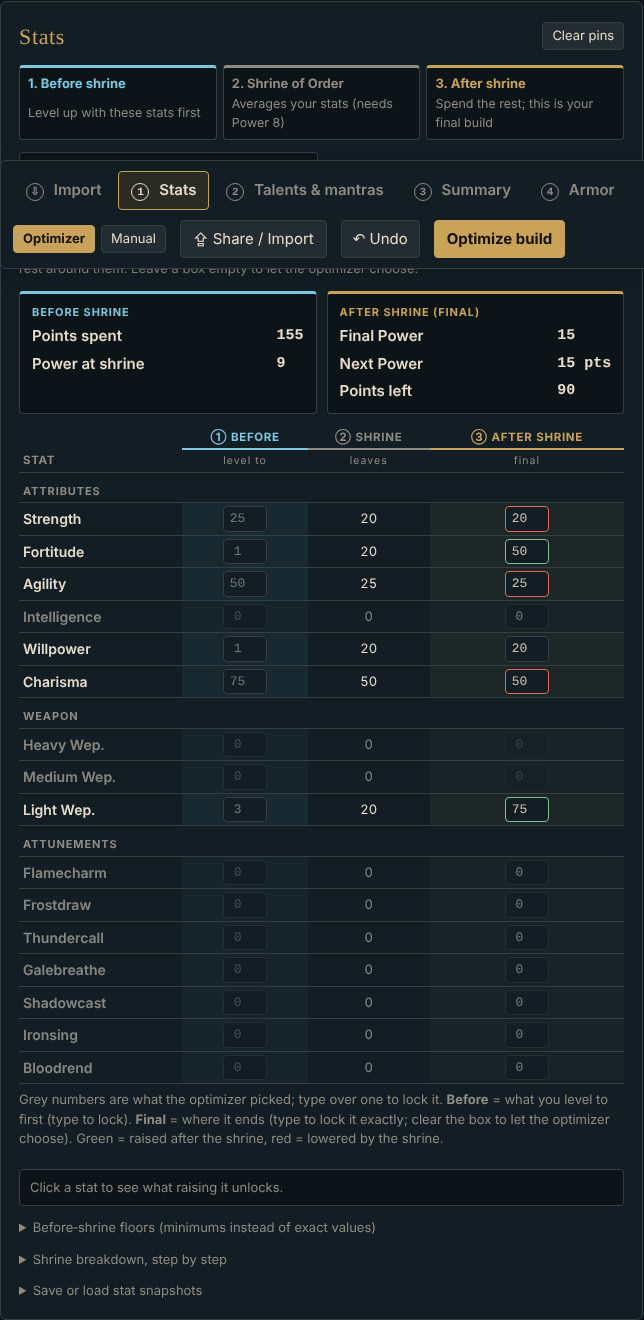
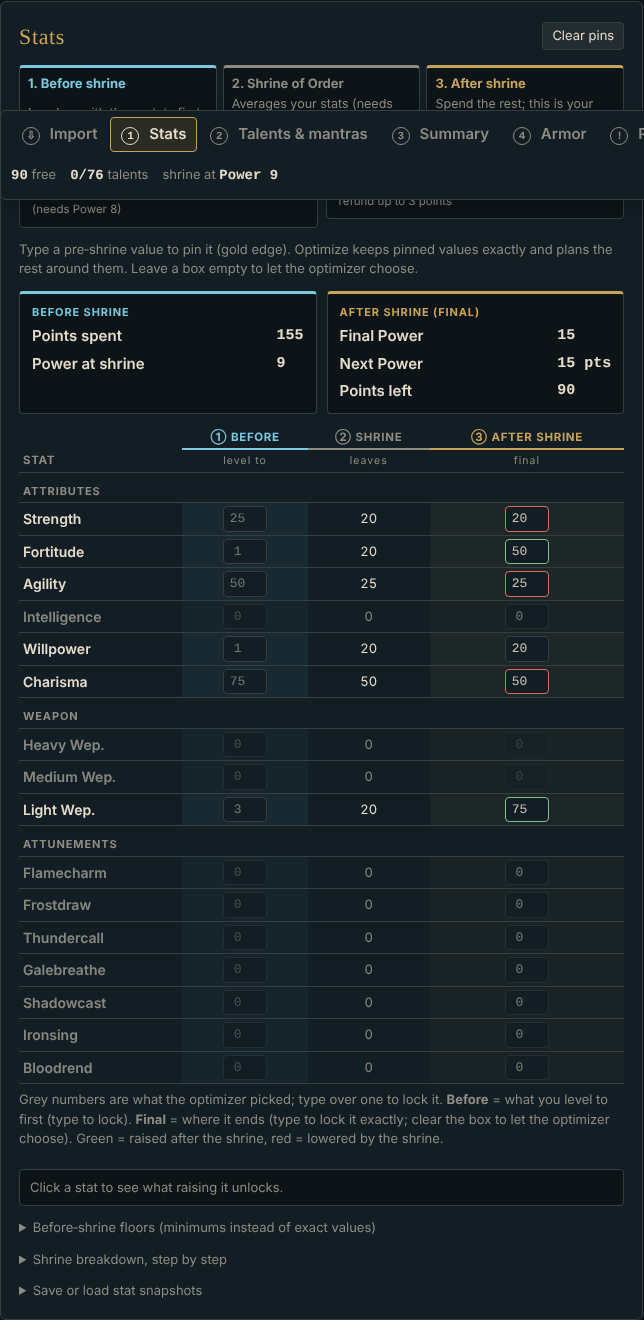
v0.23: compact sticky bar so Talents tab filters/search aren't covered; talent search finds by effect
- Version shown as v0.23 (v1.0 at release)
- The sticky bar had grown to 109-200px with the new tabs and covered the
  Talents tab filter buttons and search boxes after scrolling; now 90px
  (114px on phones) with tabs on one sideways-scrolling row
- Talent picker search looks through every talent's name, category, stats and
  description, whatever filter is selected; filters keep their panel in view

Claude-Session: https://claude.ai/code/session_01FgpXtZoLrXDjHgUHZTAHg7

Changed region(s): [[0.0, 0.0621, 1.0, 0.2174], [0.9938, 0.1553, 1.0, 0.2174]]

diff --git a/index.html b/index.html
@@ -104,13 +104,18 @@ table.ratio td:last-child{text-align:left;font-family:var(--f-body);font-size:12
 .mins label{display:flex;flex-direction:column;gap:3px;font-size:12px;color:var(--dim)}
 .mins input{width:100%}
 .hint{font-size:13px;color:var(--dim);margin:0}
-.tabbar{position:sticky;top:0;z-index:5;display:flex;flex-wrap:wrap;gap:10px 14px;align-items:center;padding:10px 12px;background:var(--trench);border:1px solid var(--line);border-radius:6px;box-shadow:0 6px 18px rgba(0,0,0,.18)}
-.tabs{display:flex;gap:4px;flex-wrap:wrap}
-.tabs button{background:transparent;border:1px solid transparent;color:var(--dim);font-weight:600;padding:7px 12px}
+/* compact sticky bar: tabs on one scrollable row, status + actions on one row below, so it covers little of the page */
+.tabbar{position:sticky;top:0;z-index:5;display:grid;grid-template-columns:minmax(0,1fr) auto auto auto auto;gap:6px 8px;align-items:center;padding:6px 10px;background:var(--trench);border:1px solid var(--line);border-radius:6px;box-shadow:0 6px 18px rgba(0,0,0,.18)}
+.tabs{grid-column:1/-1;display:flex;gap:2px;flex-wrap:nowrap;overflow-x:auto;scrollbar-width:thin}
+.tabs button{background:transparent;border:1px solid transparent;color:var(--dim);font-weight:600;padding:5px 10px;white-space:nowrap}
+.tabbar>button,.tabbar .modeseg button{padding:5px 10px;font-size:13px;white-space:nowrap}
+html{scroll-padding-top:100px}
+.tabbar .modeseg{display:flex;flex-wrap:nowrap}
+@media (max-width:1000px){.status>span:nth-child(3){display:none}}
 .tabs button b{font-family:var(--f-mono);font-size:11px;display:inline-grid;place-items:center;width:18px;height:18px;border-radius:50%;border:1px solid currentColor;margin-right:6px}
 .tabs button[aria-selected=true]{color:var(--bone);background:var(--brass-wash);border-color:var(--brass)}
 .tabs button:hover{color:var(--bone)}
-.status{flex:1 1 200px;display:flex;flex-wrap:wrap;gap:6px 14px;font-size:13px;color:var(--dim);justify-content:flex-end}
+.status{min-width:0;display:flex;flex-wrap:nowrap;overflow:hidden;gap:6px 14px;font-size:13px;color:var(--dim);justify-content:flex-start;white-space:nowrap}
 .status b{font-family:var(--f-mono);color:var(--bone);font-size:14px}
 .status .bad b,.status .bad{color:var(--bad)}
 .toast{margin:-8px 4px 0;min-height:1.2em}
@@ -255,7 +260,7 @@ dialog#wiz::backdrop{background:rgba(0,0,0,.6)}
 .tag.ok{color:var(--ok);border-color:var(--ok)} .tag.warn{color:var(--warn);border-color:var(--warn)} .tag.bad{color:var(--bad);border-color:var(--bad)}
 .chip.req{border-color:var(--brass);border-width:2px}
 
-@media (max-width:640px){.tabbar{padding:8px;gap:8px}.tabs{flex-wrap:nowrap;overflow-x:auto;width:100%}.tabs button{padding:6px 9px;white-space:nowrap}.status{justify-content:flex-start;flex:1 1 auto;font-size:12px}.tabbar>.primary{padding:6px 10px;font-size:13px}.groups.tall{max-height:60vh}}
+@media (max-width:640px){.tabbar{padding:6px;gap:5px 4px;grid-template-columns:auto auto auto auto;justify-content:space-between}.tabbar .status{grid-column:1/-1;grid-row:3;font-size:12px}.tabbar .lbl{display:none}.tabs button{padding:5px 8px}.tabbar>button,.tabbar .modeseg button{padding:5px 7px;font-size:12px}html{scroll-padding-top:120px}.groups.tall{max-height:60vh}}
 .gslot{grid-template-columns:minmax(0,1fr)!important}
 .gslot .lb{margin-bottom:-2px}
 .gslot .pips{grid-column:1!important}
@@ -431,7 +436,7 @@ details summary{cursor:pointer;color:var(--dim);font-size:13px}
 <div class="wrap">
 <header class="topbar">
   <div>
-    <h1>Meta <span>Builder</span><small class="ver" title="Meta Builder version">v1.23</small></h1>
+    <h1>Meta <span>Builder</span><small class="ver" title="Meta Builder version">v0.23</small></h1>
     <p>Deepwoken Shrine of Order planner: build, optimize, check damage, then gear up.</p>
   </div>
   <details id="lookbox" style="min-width:min(100%,280px)"><summary><svg viewBox="0 0 24 24" fill="none" stroke="currentColor" stroke-width="2" aria-hidden="true"><path d="M12 3a9 9 0 1 0 0 18c1.1 0 1.6-.9 1.6-1.7 0-.5-.2-.9-.5-1.2-.3-.3-.5-.7-.5-1.2 0-.9.8-1.7 1.7-1.7H16a5 5 0 0 0 5-5c0-3.9-4-7.2-9-7.2Z"/><circle cx="7.5" cy="11" r="1.2" fill="currentColor"/><circle cx="10.5" cy="7" r="1.2" fill="currentColor"/><circle cx="15" cy="7.5" r="1.2" fill="currentColor"/></svg>Customize look</summary>
@@ -464,8 +469,8 @@ details summary{cursor:pointer;color:var(--dim);font-size:13px}
   </div>
   <div class="status" id="status" aria-live="polite"></div>
   <div class="seg modeseg" id="modeseg" role="group" aria-label="Planner mode"><button class="mini" data-mode="opt" title="The optimizer picks pre-shrine stats, raises stats for your talents and spends leftovers">Optimizer</button><button class="mini" data-mode="man" title="You set every stat yourself; nothing is raised or chosen for you">Manual</button></div>
-  <button id="sharebtn" title="Get a link to this build, export it, or import someone else's">⇪ Share / Import</button>
-  <button id="undo" disabled title="Nothing to undo">↶ Undo</button>
+  <button id="sharebtn" title="Get a link to this build, export it, or import someone else's" aria-label="Share / Import">⇪<span class="lbl"> Share / Import</span></button>
+  <button id="undo" disabled title="Nothing to undo" aria-label="Undo">↶<span class="lbl"> Undo</span></button>
   <button class="primary" data-optimize="1">Optimize build</button>
 </nav>
 <p class="hint toast" id="copied" aria-live="polite"></p>
@@ -630,7 +635,7 @@ details summary{cursor:pointer;color:var(--dim);font-size:13px}
     <div class="row">
       <div class="seg" id="tfilter"></div>
       <div class="seg" id="tgroup"></div>
-      <input type="search" id="tfind" placeholder="Search talents or stats" aria-label="Search talents" style="flex:1 1 160px">
+      <input type="search" id="tfind" placeholder="Search all talents: name, stat or what it does" aria-label="Search talents" style="flex:1 1 160px">
     </div>
     <div id="capline"></div>
     <div id="tsugg"></div>
@@ -4305,6 +4310,8 @@ function easeFloors(){const lowered={};let guard=80;let r=compute({starts:4,iter
 function fitCap(){const d=trimToCap();if(d.length)say(`That mantra takes 2 talent slots, so ${d.length} talent${d.length>1?'s were':' was'} dropped to stay under the cap: ${d.slice(0,5).join(', ')}${d.length>5?'…':''}. Undo brings ${d.length>1?'them':'it'} back.`);return d}
 // Room for one more talent (with its missing prerequisites)?
 function roomFor(n){if(S.allowOver)return true;const keep=S.sel;S.sel=[...keep,n];const cn=counts(closure());S.sel=keep;return cn.nTal<=cn.cap}
+// after a filter re-renders a list, keep its controls visible below the sticky bar (the list can shrink under you)
+function keepInView(el){const panel=el&&el.closest&&el.closest('.panel');if(!panel)return;const bar=$('tabbar').getBoundingClientRect().bottom;const r=panel.getBoundingClientRect();if(r.top<bar+4)window.scrollBy(0,r.top-bar-8)}
 let pendingTal=null;
 // shown when a talent is added with every slot used: tick the box to allow going over (adds the talent right away)
 function capWarn(n){pendingTal=n||null;const cn=counts(closure());
@@ -4640,7 +4647,8 @@ function renderTalentChips(){
     if(t.n.startsWith('Oath:'))continue;if(t.r==='O'&&t.c!==S.oath)continue;
     const st=statusOf(t,false,ctx);
     const sy=st.k!=='have'&&st.k!=='block'&&S.tfilter!=='picked'?synOf(t.n,ctx.C):[];
-    if(sy.length&&(st.k==='fit'||st.k==='close')&&t.k&&t.r!=='Q'&&!t.req.q&&(!q||(t.n+' '+t.c).toLowerCase().includes(q))){synList.push([t,st,sy]);continue}
+    if(q){const hay=(t.n+' '+t.c+' '+fmtReqFull(t)+' '+(TDESC.get(t.n)||'')).toLowerCase();if(!q.split(/\s+/).every(x=>hay.includes(x)))continue;const g=S.tgroup==='cat'?t.c:statGroupOf(t);(groups[g]=groups[g]||[]).push([t,st]);continue}
+    if(sy.length&&(st.k==='fit'||st.k==='close')&&t.k&&t.r!=='Q'&&!t.req.q){synList.push([t,st,sy]);continue}
     if(S.tfilter==='fit'&&st.k!=='fit'&&st.k!=='have'&&st.k!=='close')continue;
     if(S.tfilter==='fit'&&st.k==='close'&&!q)continue;
     if(S.tfilter==='rec'&&!recSet.has(t.n))continue;
@@ -5843,7 +5851,7 @@ document.addEventListener('click',e=>{
   else if(d.cmore){S.climit=(S.climit||12)+12;renderCombos()}
   else if(d.cadd){const [a,b]=d.cadd.split('|').map(decodeURIComponent);addComboMantras(a,b)}
   else if(d.cdel){const [a,b]=d.cdel.split('|').map(decodeURIComponent);saveMyCombos(myCombos().filter(x=>!(x[0]===a&&x[1]===b)));renderCombos();say(`Removed your combo ${a} → ${b}.`)}
-  else if(d.bf){S.bfilter=d.bf;S.blim=40;renderReqBrowse();save()}
+  else if(d.bf){S.bfilter=d.bf;S.blim=40;renderReqBrowse();save();keepInView(t)}
   else if(d.bmore){S.blim=(S.blim||40)+40;renderReqBrowse()}
   else if(d.bopen){const n=decodeURIComponent(d.bopen);reqOpen=reqOpen===n?null:n;renderReqBrowse()}
   else if(d.reqadd){const n=decodeURIComponent(d.reqadd);if(!S.req.includes(n)){pushUndo('Require '+n);S.req.push(n);reqOpen=n;runSoon();say(`${n} is now required.`)}}
@@ -5874,8 +5882,8 @@ document.addEventListener('click',e=>{
   else if(d.tadd){const n=decodeURIComponent(d.tadd);if(!S.sel.includes(n)){if(!roomFor(n)){capWarn(n);return}pushUndo('Take '+n);S.sel.push(n)}runSoon();say(`Took ${n}.`)}
   else if(d.mtog&&isReq(decodeURIComponent(d.mtog))){say(`${decodeURIComponent(d.mtog)} is required. Remove it on the Talents tab first.`)}
   else if(d.mtog){const n=decodeURIComponent(d.mtog);if(S.mantras.includes(n))S.mantras=S.mantras.filter(x=>x!==n);else{S.mantras.push(n);const cn=counts(closure());if(cn.nTal>cn.cap){S.mantras.pop();pushUndo('Add '+n);S.mantras.push(n);fitCap()}}runSoon()}
-  else if(d.tg){S.tgroup=d.tg;S.tclosed=[];renderTalentChips();save()}
-  else if(d.tf){S.tfilter=d.tf;renderTalentChips();save()}
+  else if(d.tg){S.tgroup=d.tg;S.tclosed=[];renderTalentChips();save();keepInView(t)}
+  else if(d.tf){S.tfilter=d.tf;renderTalentChips();save();keepInView(t)}
   else if(d.mf){S.mfilter=d.mf;renderMantraChips();save()}
   else if(d.optimize){optimizeAll()}
   else if(t.id==='autopick'||t.id==='autopick2'){autoPick()}

diff --git a/src/template.html b/src/template.html
@@ -90,13 +90,18 @@ table.ratio td:last-child{text-align:left;font-family:var(--f-body);font-size:12
 .mins label{display:flex;flex-direction:column;gap:3px;font-size:12px;color:var(--dim)}
 .mins input{width:100%}
 .hint{font-size:13px;color:var(--dim);margin:0}
-.tabbar{position:sticky;top:0;z-index:5;display:flex;flex-wrap:wrap;gap:10px 14px;align-items:center;padding:10px 12px;background:var(--trench);border:1px solid var(--line);border-radius:6px;box-shadow:0 6px 18px rgba(0,0,0,.18)}
-.tabs{display:flex;gap:4px;flex-wrap:wrap}
-.tabs button{background:transparent;border:1px solid transparent;color:var(--dim);font-weight:600;padding:7px 12px}
+/* compact sticky bar: tabs on one scrollable row, status + actions on one row below, so it covers little of the page */
+.tabbar{position:sticky;top:0;z-index:5;display:grid;grid-template-columns:minmax(0,1fr) auto auto auto auto;gap:6px 8px;align-items:center;padding:6px 10px;background:var(--trench);border:1px solid var(--line);border-radius:6px;box-shadow:0 6px 18px rgba(0,0,0,.18)}
+.tabs{grid-column:1/-1;display:flex;gap:2px;flex-wrap:nowrap;overflow-x:auto;scrollbar-width:thin}
+.tabs button{background:transparent;border:1px solid transparent;color:var(--dim);font-weight:600;padding:5px 10px;white-space:nowrap}
+.tabbar>button,.tabbar .modeseg button{padding:5px 10px;font-size:13px;white-space:nowrap}
+html{scroll-padding-top:100px}
+.tabbar .modeseg{display:flex;flex-wrap:nowrap}
+@media (max-width:1000px){.status>span:nth-child(3){display:none}}
 .tabs button b{font-family:var(--f-mono);font-size:11px;display:inline-grid;place-items:center;width:18px;height:18px;border-radius:50%;border:1px solid currentColor;margin-right:6px}
 .tabs button[aria-selected=true]{color:var(--bone);background:var(--brass-wash);border-color:var(--brass)}
 .tabs button:hover{color:var(--bone)}
-.status{flex:1 1 200px;display:flex;flex-wrap:wrap;gap:6px 14px;font-size:13px;color:var(--dim);justify-content:flex-end}
+.status{min-width:0;display:flex;flex-wrap:nowrap;overflow:hidden;gap:6px 14px;font-size:13px;color:var(--dim);justify-content:flex-start;white-space:nowrap}
 .status b{font-family:var(--f-mono);color:var(--bone);font-size:14px}
 .status .bad b,.status .bad{color:var(--bad)}
 .toast{margin:-8px 4px 0;min-height:1.2em}
@@ -241,7 +246,7 @@ dialog#wiz::backdrop{background:rgba(0,0,0,.6)}
 .tag.ok{color:var(--ok);border-color:var(--ok)} .tag.warn{color:var(--warn);border-color:var(--warn)} .tag.bad{color:var(--bad);border-color:var(--bad)}
 .chip.req{border-color:var(--brass);border-width:2px}
 
-@media (max-width:640px){.tabbar{padding:8px;gap:8px}.tabs{flex-wrap:nowrap;overflow-x:auto;width:100%}.tabs button{padding:6px 9px;white-space:nowrap}.status{justify-content:flex-start;flex:1 1 auto;font-size:12px}.tabbar>.primary{padding:6px 10px;font-size:13px}.groups.tall{max-height:60vh}}
+@media (max-width:640px){.tabbar{padding:6px;gap:5px 4px;grid-template-columns:auto auto auto auto;justify-content:space-between}.tabbar .status{grid-column:1/-1;grid-row:3;font-size:12px}.tabbar .lbl{display:none}.tabs button{padding:5px 8px}.tabbar>button,.tabbar .modeseg button{padding:5px 7px;font-size:12px}html{scroll-padding-top:120px}.groups.tall{max-height:60vh}}
 .gslot{grid-template-columns:minmax(0,1fr)!important}
 .gslot .lb{margin-bottom:-2px}
 .gslot .pips{grid-column:1!important}
@@ -417,7 +422,7 @@ details summary{cursor:pointer;color:var(--dim);font-size:13px}
 <div class="wrap">
 <header class="topbar">
   <div>
-    <h1>Meta <span>Builder</span><small class="ver" title="Meta Builder version">v1.23</small></h1>
+    <h1>Meta <span>Builder</span><small class="ver" title="Meta Builder version">v0.23</small></h1>
     <p>Deepwoken Shrine of Order planner: build, optimize, check damage, then gear up.</p>
   </div>
   <details id="lookbox" style="min-width:min(100%,280px)"><summary><svg viewBox="0 0 24 24" fill="none" stroke="currentColor" stroke-width="2" aria-hidden="true"><path d="M12 3a9 9 0 1 0 0 18c1.1 0 1.6-.9 1.6-1.7 0-.5-.2-.9-.5-1.2-.3-.3-.5-.7-.5-1.2 0-.9.8-1.7 1.7-1.7H16a5 5 0 0 0 5-5c0-3.9-4-7.2-9-7.2Z"/><circle cx="7.5" cy="11" r="1.2" fill="currentColor"/><circle cx="10.5" cy="7" r="1.2" fill="currentColor"/><circle cx="15" cy="7.5" r="1.2" fill="currentColor"/></svg>Customize look</summary>
@@ -450,8 +455,8 @@ details summary{cursor:pointer;color:var(--dim);font-size:13px}
   </div>
   <div class="status" id="status" aria-live="polite"></div>
   <div class="seg modeseg" id="modeseg" role="group" aria-label="Planner mode"><button class="mini" data-mode="opt" title="The optimizer picks pre-shrine stats, raises stats for your talents and spends leftovers">Optimizer</button><button class="mini" data-mode="man" title="You set every stat yourself; nothing is raised or chosen for you">Manual</button></div>
-  <button id="sharebtn" title="Get a link to this build, export it, or import someone else's">⇪ Share / Import</button>
-  <button id="undo" disabled title="Nothing to undo">↶ Undo</button>
+  <button id="sharebtn" title="Get a link to this build, export it, or import someone else's" aria-label="Share / Import">⇪<span class="lbl"> Share / Import</span></button>
+  <button id="undo" disabled title="Nothing to undo" aria-label="Undo">↶<span class="lbl"> Undo</span></button>
   <button class="primary" data-optimize="1">Optimize build</button>
 </nav>
 <p class="hint toast" id="copied" aria-live="polite"></p>
@@ -616,7 +621,7 @@ details summary{cursor:pointer;color:var(--dim);font-size:13px}
     <div class="row">
       <div class="seg" id="tfilter"></div>
       <div class="seg" id="tgroup"></div>
-      <input type="search" id="tfind" placeholder="Search talents or stats" aria-label="Search talents" style="flex:1 1 160px">
+      <input type="search" id="tfind" placeholder="Search all talents: name, stat or what it does" aria-label="Search talents" style="flex:1 1 160px">
     </div>
     <div id="capline"></div>
     <div id="tsugg"></div>
@@ -1381,6 +1386,8 @@ function easeFloors(){const lowered={};let guard=80;let r=compute({starts:4,iter
 function fitCap(){const d=trimToCap();if(d.length)say(`That mantra takes 2 talent slots, so ${d.length} talent${d.length>1?'s were':' was'} dropped to stay under the cap: ${d.slice(0,5).join(', ')}${d.length>5?'…':''}. Undo brings ${d.length>1?'them':'it'} back.`);return d}
 // Room for one more talent (with its missing prerequisites)?
 function roomFor(n){if(S.allowOver)return true;const keep=S.sel;S.sel=[...keep,n];const cn=counts(closure());S.sel=keep;return cn.nTal<=cn.cap}
+// after a filter re-renders a list, keep its controls visible below the sticky bar (the list can shrink under you)
+function keepInView(el){const panel=el&&el.closest&&el.closest('.panel');if(!panel)return;const bar=$('tabbar').getBoundingClientRect().bottom;const r=panel.getBoundingClientRect();if(r.top<bar+4)window.scrollBy(0,r.top-bar-8)}
 let pendingTal=null;
 // shown when a talent is added with every slot used: tick the box to allow going over (adds the talent right away)
 function capWarn(n){pendingTal=n||null;const cn=counts(closure());
@@ -1716,7 +1723,8 @@ function renderTalentChips(){
     if(t.n.startsWith('Oath:'))continue;if(t.r==='O'&&t.c!==S.oath)continue;
     const st=statusOf(t,false,ctx);
     const sy=st.k!=='have'&&st.k!=='block'&&S.tfilter!=='picked'?synOf(t.n,ctx.C):[];
-    if(sy.length&&(st.k==='fit'||st.k==='close')&&t.k&&t.r!=='Q'&&!t.req.q&&(!q||(t.n+' '+t.c).toLowerCase().includes(q))){synList.push([t,st,sy]);continue}
+    if(q){const hay=(t.n+' '+t.c+' '+fmtReqFull(t)+' '+(TDESC.get(t.n)||'')).toLowerCase();if(!q.split(/\s+/).every(x=>hay.includes(x)))continue;const g=S.tgroup==='cat'?t.c:statGroupOf(t);(groups[g]=groups[g]||[]).push([t,st]);continue}
+    if(sy.length&&(st.k==='fit'||st.k==='close')&&t.k&&t.r!=='Q'&&!t.req.q){synList.push([t,st,sy]);continue}
     if(S.tfilter==='fit'&&st.k!=='fit'&&st.k!=='have'&&st.k!=='close')continue;
     if(S.tfilter==='fit'&&st.k==='close'&&!q)continue;
     if(S.tfilter==='rec'&&!recSet.has(t.n))continue;
@@ -2919,7 +2927,7 @@ document.addEventListener('click',e=>{
   else if(d.cmore){S.climit=(S.climit||12)+12;renderCombos()}
   else if(d.cadd){const [a,b]=d.cadd.split('|').map(decodeURIComponent);addComboMantras(a,b)}
   else if(d.cdel){const [a,b]=d.cdel.split('|').map(decodeURIComponent);saveMyCombos(myCombos().filter(x=>!(x[0]===a&&x[1]===b)));renderCombos();say(`Removed your combo ${a} → ${b}.`)}
-  else if(d.bf){S.bfilter=d.bf;S.blim=40;renderReqBrowse();save()}
+  else if(d.bf){S.bfilter=d.bf;S.blim=40;renderReqBrowse();save();keepInView(t)}
   else if(d.bmore){S.blim=(S.blim||40)+40;renderReqBrowse()}
   else if(d.bopen){const n=decodeURIComponent(d.bopen);reqOpen=reqOpen===n?null:n;renderReqBrowse()}
   else if(d.reqadd){const n=decodeURIComponent(d.reqadd);if(!S.req.includes(n)){pushUndo('Require '+n);S.req.push(n);reqOpen=n;runSoon();say(`${n} is now required.`)}}
@@ -2950,8 +2958,8 @@ document.addEventListener('click',e=>{
   else if(d.tadd){const n=decodeURIComponent(d.tadd);if(!S.sel.includes(n)){if(!roomFor(n)){capWarn(n);return}pushUndo('Take '+n);S.sel.push(n)}runSoon();say(`Took ${n}.`)}
   else if(d.mtog&&isReq(decodeURIComponent(d.mtog))){say(`${decodeURIComponent(d.mtog)} is required. Remove it on the Talents tab first.`)}
   else if(d.mtog){const n=decodeURIComponent(d.mtog);if(S.mantras.includes(n))S.mantras=S.mantras.filter(x=>x!==n);else{S.mantras.push(n);const cn=counts(closure());if(cn.nTal>cn.cap){S.mantras.pop();pushUndo('Add '+n);S.mantras.push(n);fitCap()}}runSoon()}
-  else if(d.tg){S.tgroup=d.tg;S.tclosed=[];renderTalentChips();save()}
-  else if(d.tf){S.tfilter=d.tf;renderTalentChips();save()}
+  else if(d.tg){S.tgroup=d.tg;S.tclosed=[];renderTalentChips();save();keepInView(t)}
+  else if(d.tf){S.tfilter=d.tf;renderTalentChips();save();keepInView(t)}
   else if(d.mf){S.mfilter=d.mf;renderMantraChips();save()}
   else if(d.optimize){optimizeAll()}
   else if(t.id==='autopick'||t.id==='autopick2'){autoPick()}

diff --git a/NOTES.md b/NOTES.md
@@ -115,7 +115,7 @@ All game data is a snapshot of **deepwoken.co** (October 2026). The fandom wiki 
 - Refreshing data means pulling from deepwoken.co again with the endpoints above and regenerating `src/data/*.txt` in the same formats.
 
 ## Version
-The version shown next to the title is in `src/template.html` (`<small class="ver">`). Bump it with each release (started at v1.12).
+The version shown next to the title is in `src/template.html` (`<small class="ver">`). Pre-release numbering is v0.x (v0.23 now); the owner sets v1.0 at release. Bump it with each release.
 
 ## Tabs (v1.14)
 1 Stats (presets, stat table: Before shrine / Shrine leaves / After shrine at least + final, optimizer, weapon, attunements, oath, wishes) · 2 Talents & mantras (picker, required/avoid, browse, your talents, mantras, combos) · 3 Summary · 4 Armor. Old saved tab `opt` maps to Stats. Pane ids stay `tab-build`, `tab-req`, `tab-sum`, `tab-arm`.
@@ -158,3 +158,8 @@ The version shown next to the title is in `src/template.html` (`<small class="ve
 
 ## v1.23 Adjustments
 - `#adjpanel` under the stats table, shown after an AI build (`S.aiAdj`, Hide button). `applyAdjust` understands exact values ("int to 30"), relative ("lower cha by 10", "more agility" = +15 from the current final), attunement swaps/adds/removes, weapon type/level, named oath/weapon/outfit, add/remove talents and mantras, tankier/glass cannon/more mobile, then falls through to `applyWish`. Values it sets go in `S.keep` so `easeFloors` lowers other targets first. `runAdjust` re-optimizes; if the build still cannot fit it undoes the change and says how many points were missing.
+
+## v0.23
+- Version renamed to v0.23 (owner sets v1.0 at release).
+- Sticky bar compacted (grid: tabs row scrolls sideways, status + actions row; phone: Share/Undo as icons, status on a third line): 90px desktop/tablet, 114px phone (was 109/200/176). Tall bar covered the Talents tab filters and searches after scrolling.
+- Talent picker search (`#tfind`) matches name, category, stats and description across all talents regardless of filter. Filter buttons scroll their panel back into view (`keepInView`).
